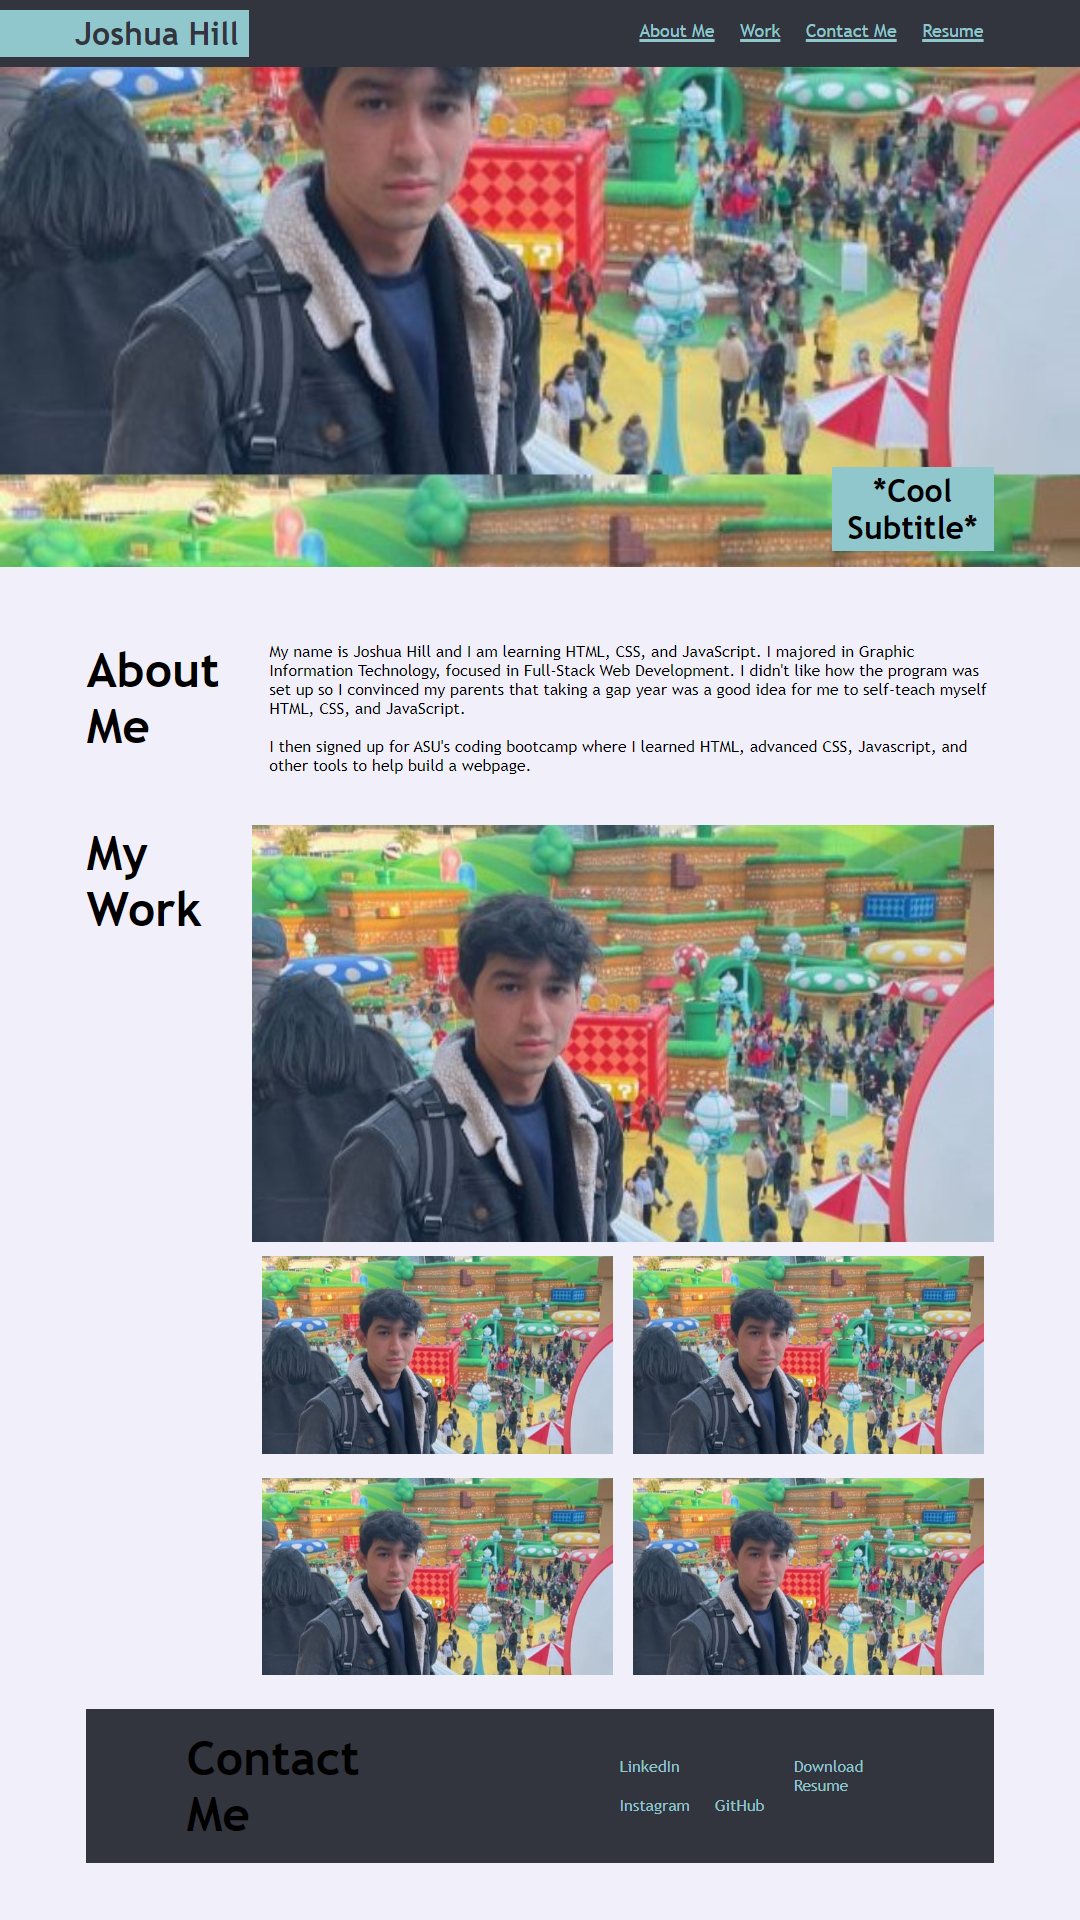
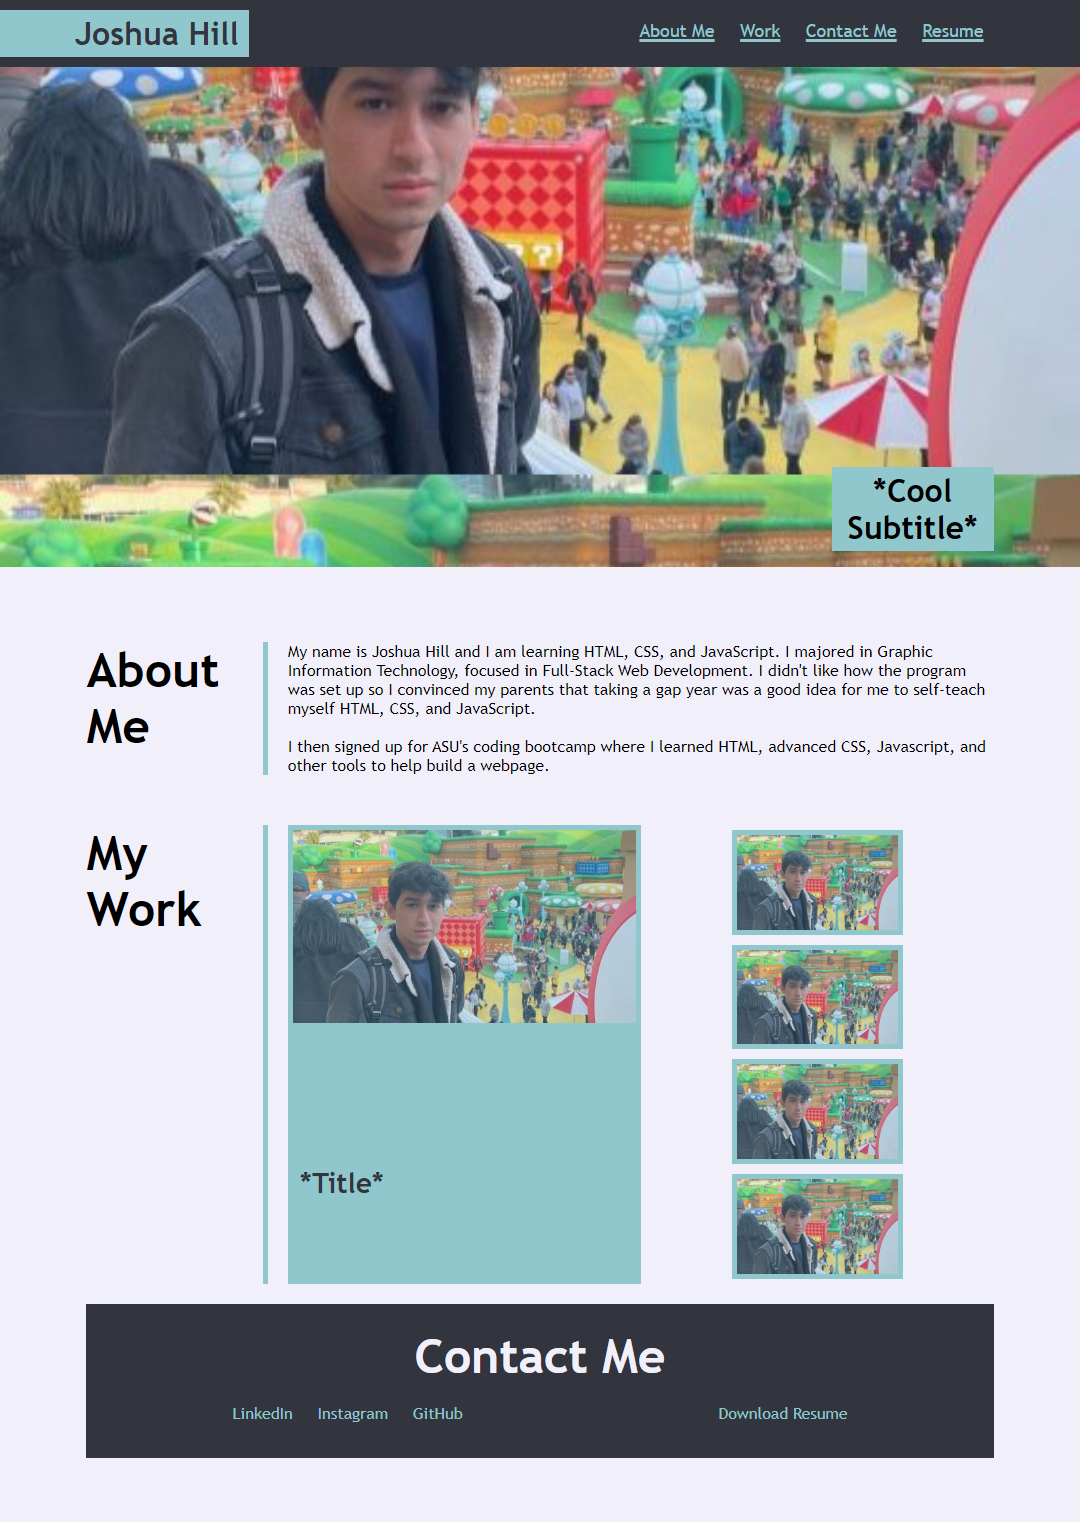
Deleted unnecessary div and changed CSS & preview.

diff --git a/assets/css/style.css b/assets/css/style.css
@@ -8,6 +8,9 @@
   margin: 0;
 }
 
+html {
+  scroll-behavior: smooth;
+}
 
 body {
   background-color: #F1EFF9;
@@ -175,9 +178,6 @@ h2 {
 
 
 /* CONTACT ME SECTION */
-#contactMe {
-  color: #F1EFF9;
-}
 #contactMeandResume { 
   padding: 50px 0;
   margin: 20px 0;
@@ -193,6 +193,7 @@ h2 {
   float: left;
   justify-content: space-between;
   padding: 0;
+  color: #F1EFF9;  /* This is really just to change the color of the h2; all the other elements get their color changed by more specification. */
 }
 #contactMeandResume nav ul li {
   display: inline-block;
@@ -217,6 +218,14 @@ h2 {
 }
 
 
+@media screen and (max-width: 1472px) {
+  #workDisplay #otherWork {
+    width: fit-content;
+  }
+  #navAndDL {
+    width: 70%;
+  }
+}
 
 
 

diff --git a/index.html b/index.html
@@ -46,9 +46,7 @@
         </div>
       </div>
       <div id="contactMeandResume">
-        <div id="contactMe">
-          <h2>Contact Me</h2>
-        </div>
+        <h2>Contact Me</h2>
         <div id="navAndDL"> <!-- Use this to have the links next to each other -->
           <nav>
             <ul>
